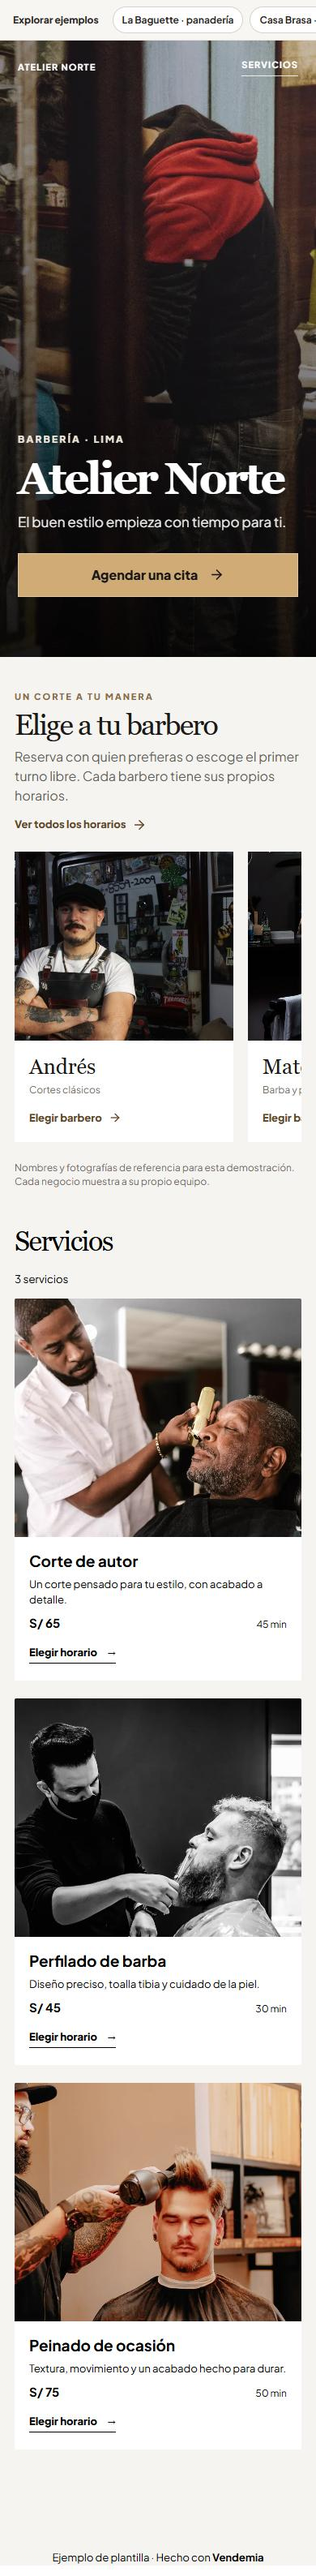
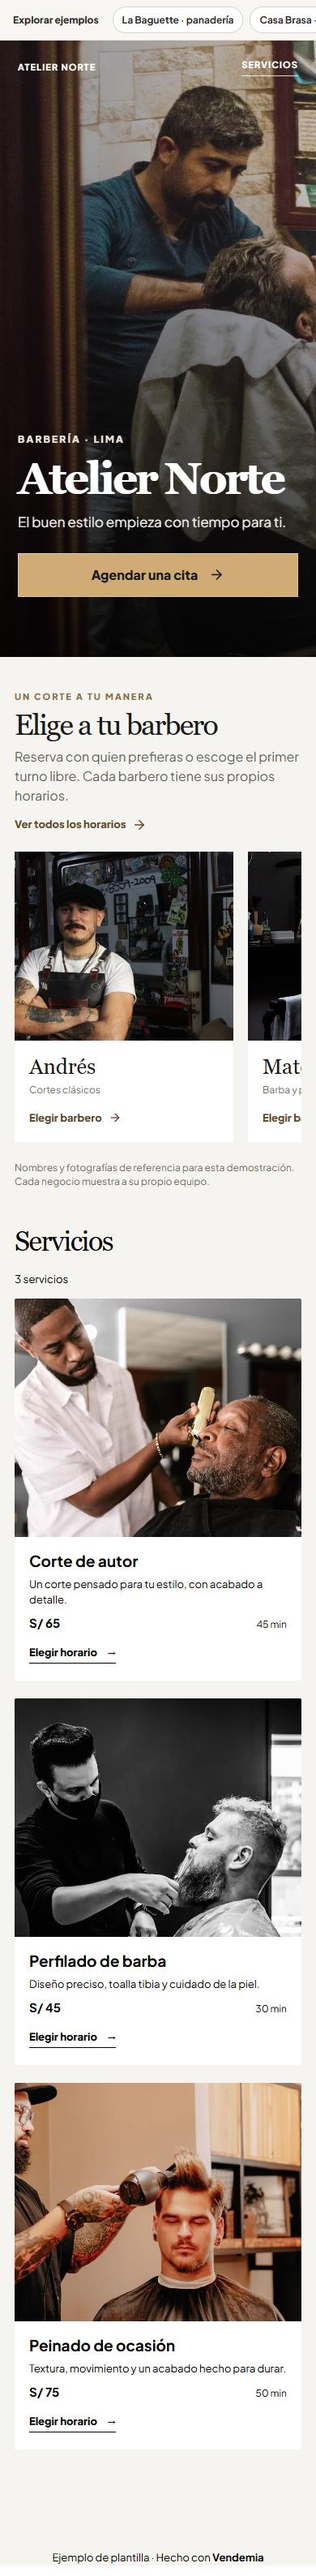
fix: encuadra portada móvil y anima timbre de cafetería

Changed region(s): [[0.0, 0.0, 1.0, 0.2182], [0.2769, 0.1559, 0.3692, 0.2182], [0.0308, 0.2182, 0.0615, 0.2494]]

diff --git a/modules/tu-pagina/publico/negocios-ejemplo.css b/modules/tu-pagina/publico/negocios-ejemplo.css
@@ -177,9 +177,17 @@
 }
 
 @media (max-width: 650px) {
-  .ne-cafe-header button.ne-cafe-mesero { width: 42px; height: 42px; padding: 0; justify-content: center; font-size: 0; }
+  .ne-cafe-header button.ne-cafe-mesero { width: 42px; height: 42px; padding: 0; justify-content: center; gap: 0; font-size: 0; }
   .ne-cafe-header button.ne-cafe-mesero svg { flex: none; }
   .ne-cafe-cartbar { left: 12px; right: 12px; bottom: 12px; justify-content: space-between; font-size: 12px; }
   .ne-carrito-cabecera { padding: 20px 18px 15px; }
   .ne-carrito-contenido, .ne-carrito-pie { padding-left: 18px; padding-right: 18px; }
 }
+
+@keyframes ne-cafe-timbre {
+  0%, 24%, 100% { transform: rotate(0); }
+  5%, 15% { transform: rotate(-18deg); }
+  10%, 20% { transform: rotate(18deg); }
+}
+.ne-cafe-header button.ne-cafe-mesero svg { transform-origin: 50% 12%; animation: ne-cafe-timbre 3s ease-in-out infinite; }
+@media (prefers-reduced-motion: reduce) { .ne-cafe-header button.ne-cafe-mesero svg { animation: none; } }

diff --git a/modules/tu-pagina/estilos/publica.css b/modules/tu-pagina/estilos/publica.css
@@ -837,7 +837,7 @@ html:has(.tp[data-plantilla='luxury']), body:has(.tp[data-plantilla='luxury']) {
   .tp-luxury-motion__fijo { position: sticky; top: 0; height: 100svh; overflow: hidden; touch-action: pan-y; }
   .tp-luxury-motion .tp-luxury-hero { height: 100svh; min-height: 100svh; }
   .tp-luxury-hero { min-height: min(740px, 82svh); padding: 20px 22px 50px; background-position: 62% center; }
-  .tp-luxury-hero--foto-ejemplo { background-position: 78% center; }
+  .tp-luxury-hero--foto-ejemplo { background-position: 32% center; }
   .tp-luxury-motion .tp-luxury-hero { padding: 22px 22px 74px; }
   .tp-luxury-nav__paso { display: none; }
   .tp-luxury-motion__siguiente { right: 22px; bottom: 18px; font-size: 11px; }
